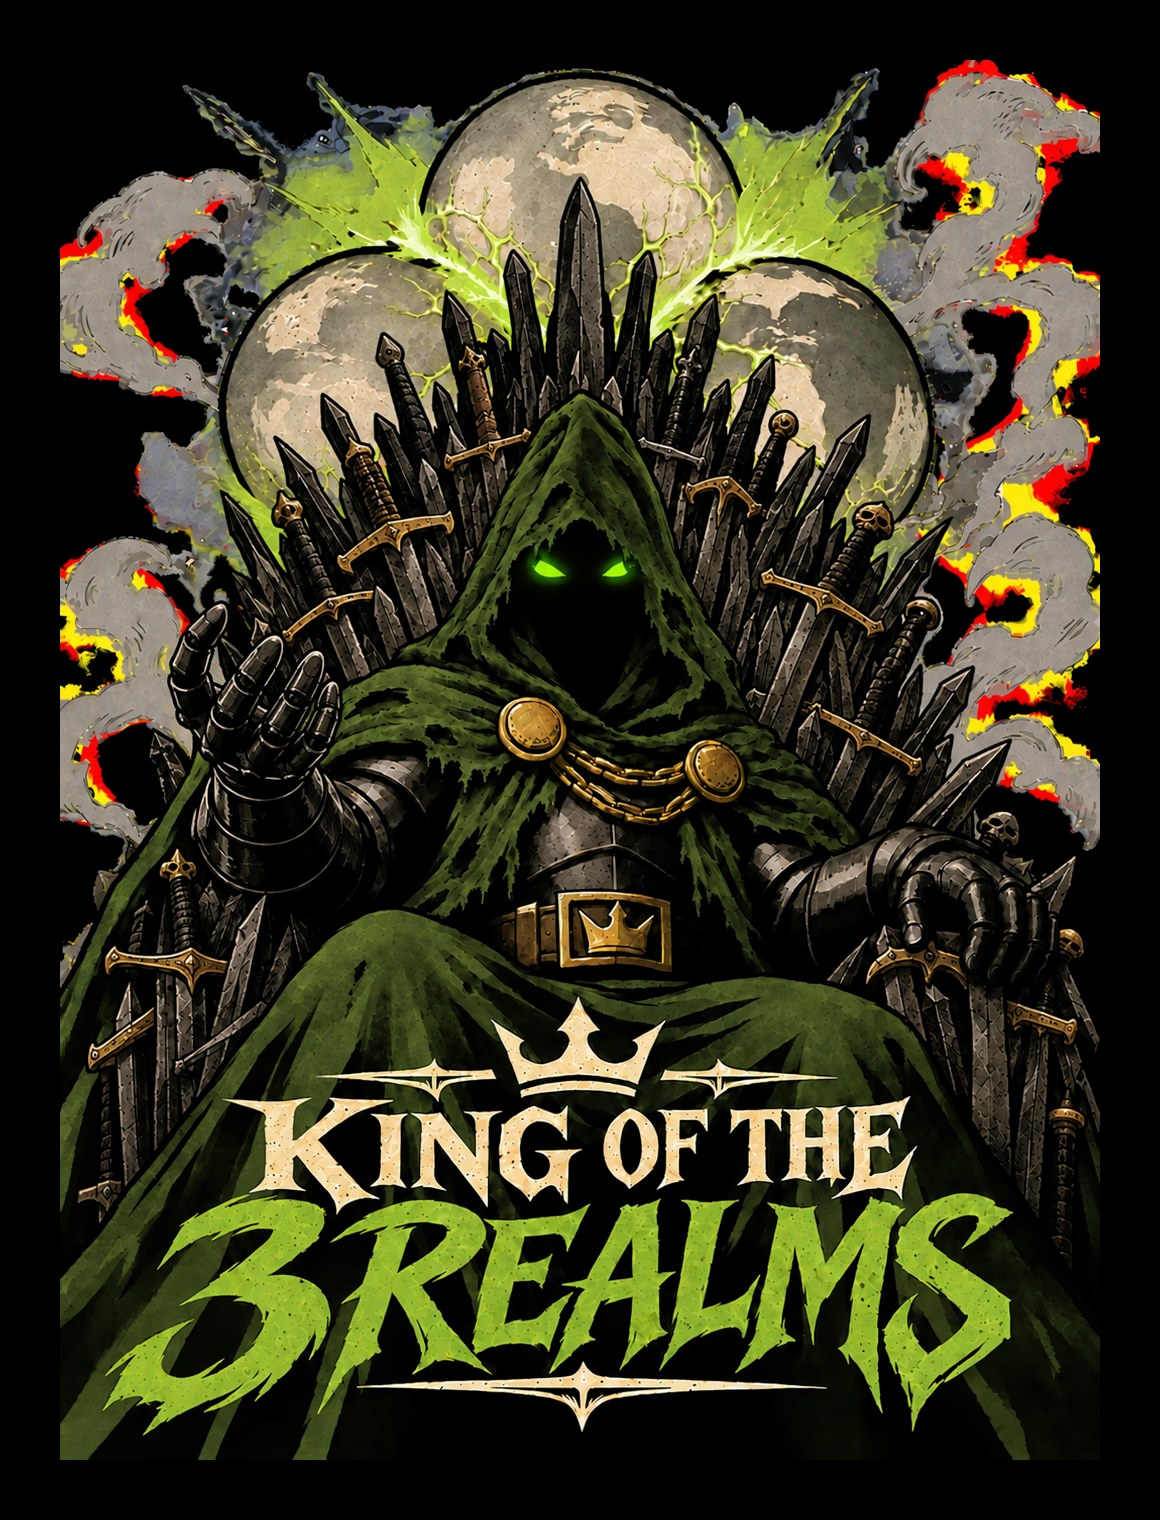
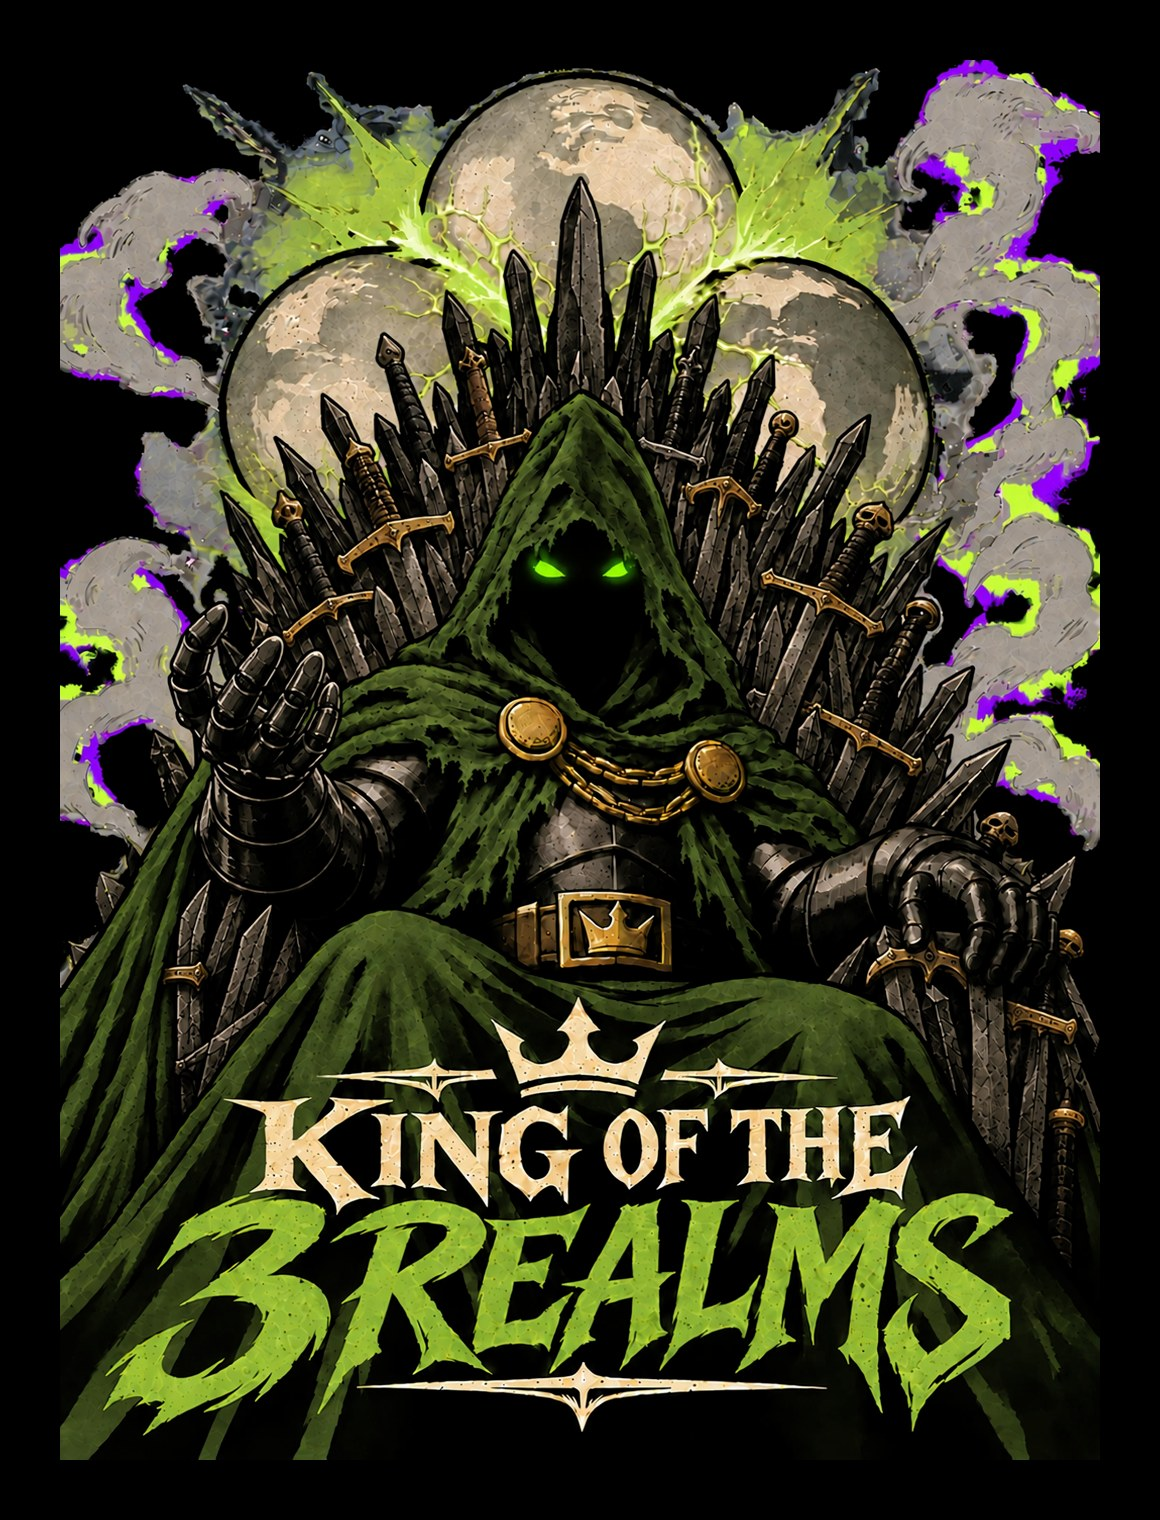
Doomsday Drop: King smoke purple/green + cape fix, add A Stolen Life
Claude-Session: https://claude.ai/code/session_01T2BjBwV7d2vTxpMeBzrFvG

diff --git a/designs/doomsday-2026/print/prep.py b/designs/doomsday-2026/print/prep.py
@@ -1,16 +1,26 @@
 """Doomsday drop print files: Kittl 4x upscales (up/) keyed to transparent for dark garments.
-Black backgrounds: soft luminance key (near-black -> clear). Doom in Our Time: white background keyed out.
+Black backgrounds: soft luminance key (near-black -> clear). Doom in Our Time: white background keyed out. A Stolen Life: kept as a full poster.
 Usage: python3 designs/doomsday-2026/print/prep.py"""
 import glob, os
 import numpy as np
-from PIL import Image
+from PIL import Image, ImageFilter
 
 HERE = os.path.dirname(os.path.abspath(__file__))
 UP = os.path.join(HERE, "..", "up")
 for f in sorted(glob.glob(os.path.join(UP, "*"))):
     slug = os.path.splitext(os.path.basename(f))[0].replace("-final", "")
     a = np.asarray(Image.open(f).convert("RGB")).astype(np.float32)
-    if slug == "doom-in-our-time":
+    if slug == "a-stolen-life":                         # full vintage poster: print as-is, but clear the light corners
+        dist = 255 - a.min(axis=2)
+        alpha = np.ones(a.shape[:2], np.float32)
+        h, w = alpha.shape
+        for ys, xs in ((slice(0, h // 12), slice(0, w // 12)), (slice(0, h // 12), slice(-w // 12, None)),
+                       (slice(-h // 12, None), slice(0, w // 12)), (slice(-h // 12, None), slice(-w // 12, None))):
+            c = a[ys, xs]
+            chroma = c.max(axis=2) - c.min(axis=2)          # backdrop is neutral white/grey, the paper is warm cream
+            alpha[ys, xs] = np.where((chroma < 16) & (c.min(axis=2) > 190), 0.0, 1.0)
+        rgb = a
+    elif slug == "doom-in-our-time":
         dist = 255 - a.min(axis=2)                       # how far from white
         alpha = np.clip((dist - 25) / 60, 0, 1)
         rgb = a
@@ -20,6 +30,8 @@ for f in sorted(glob.glob(os.path.join(UP, "*"))):
         rgb = a
     out = np.dstack([rgb, alpha * 255]).astype(np.uint8)
     im = Image.fromarray(out, "RGBA")
+    if slug == "a-stolen-life":                            # soften the cut corners
+        im.putalpha(im.getchannel("A").filter(ImageFilter.MinFilter(3)).filter(ImageFilter.GaussianBlur(1.5)))
     im = im.crop(im.getbbox())
     im.save(os.path.join(HERE, f"{slug}.png"), optimize=True)
     print(slug, im.size, os.path.getsize(os.path.join(HERE, f"{slug}.png")) // 1024, "KB")

diff --git a/printify/create_doomsday.py b/printify/create_doomsday.py
@@ -1,4 +1,4 @@
-"""Doomsday Drop (limited, 2026-11-25 to 2026-12-18): the owner's cleaned designs (6 after Doomsday Mask + Tree Spirit were dropped) as a Black front-print tee
+"""Doomsday Drop (limited, 2026-11-25 to 2026-12-18): the owner's cleaned designs (Doomsday Mask + Tree Spirit dropped, A Stolen Life added) as a Black front-print tee
 (Bella+Canvas 3001, provider 29, $27) and a Black back-print hoodie (Gildan 18500 at SwiftPOD, provider 39, $37).
 Print files: designs/doomsday-2026/print/<slug>.png (Kittl 4x upscales, background keyed out; see prep.py).
 Tags "doomsday drop" + "limited drop" feed the Doomsday Drop collection. No franchise names anywhere.
@@ -22,6 +22,7 @@ DESIGNS = [
     ("king-of-3-realms", "King of the 3 Realms", "A hooded king on a throne forged from swords, three moons behind him and green lightning splitting the sky.", ["villain", "throne", "moons"]),
     ("no-gods-only-doom", "No Gods, Only Doom", "An iron gauntlet shattering a golden halo, framed by roses and a banner.", ["villain", "roses", "tattoo"]),
     ("three-earths", "Doomsday Incursion", "Three worlds colliding in green and violet fire.", ["space", "planets", "multiverse"]),
+    ("a-stolen-life", "A Stolen Life", "A vintage-poster sunset: a boy in suspenders holding up a homemade wooden shield, a couple silhouetted in a glowing doorway. A chance at peace.", ["vintage", "retro poster", "americana"]),
 ]
 TEE = dict(kind="Tee", blueprint=12, provider=29, price=2700, position="front", colors={"Black"},
            features=["Full-color front print", "Soft, lightweight 100% combed cotton", "Retail unisex fit"])
